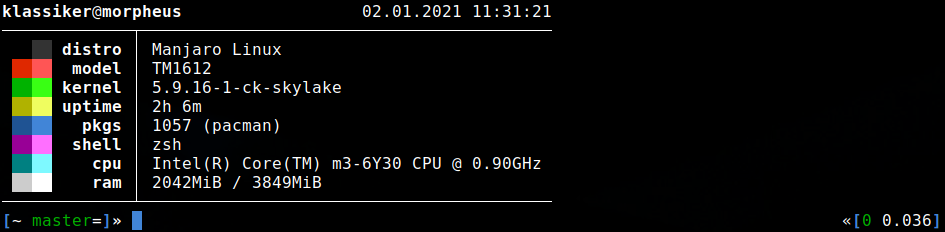
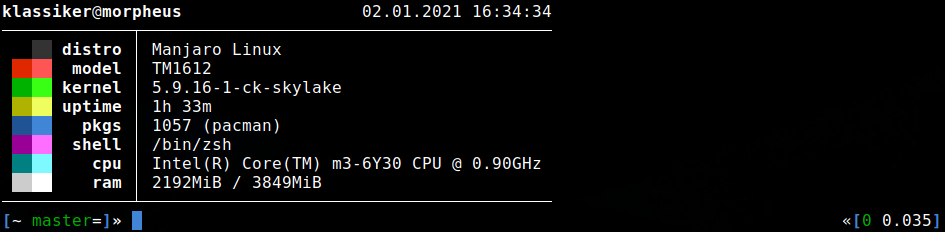
shell format changed to full path

diff --git a/cinfo.c b/cinfo.c
@@ -2,10 +2,11 @@
  * path:       /home/klassiker/.local/share/repos/cinfo/cinfo.c
  * author:     klassiker [mrdotx]
  * github:     https://github.com/mrdotx/cinfo
- * date:       2021-01-02T11:23:02+0100
+ * date:       2021-01-02T16:34:02+0100
  */
 
 #include <stdio.h>
+#include <stdlib.h>
 #include <string.h>
 #include <time.h>
 
@@ -36,16 +37,16 @@ int linelen,
 
 char user[50],
      host[50],
-     zeit[] = "31.12.2020 23:59:59",
+     zeit[20],
      distro[50],
      model[65],
      kernel[50],
-     uptime[] = "999d 23h 59m",
-     pkgs[] = "99999 (pacman)",
-     shell[] = "dash",
+     uptime[10],
+     pkgs[15],
+     shell[25],
      cpu[50],
-     ram[] = "99999MiB / 99999MiB",
-     color[15];
+     ram[20],
+     color[20];
 
 const char* getSpacer(char *character, int length) {
     static char spacer[] = "";
@@ -62,9 +63,7 @@ const char* getSpacer(char *character, int length) {
 }
 
 void getUser() {
-    FILE *userName = popen("printf '%s\n' $USER", "r");
-    fscanf(userName, "%s", user);
-    fclose(userName);
+    sprintf(user, "%s", getenv("USER"));
 }
 
 void getHost() {
@@ -186,9 +185,7 @@ void getPackages() {
 }
 
 void getShell() {
-    FILE *shellpath = popen("basename $SHELL", "r");
-    fscanf(shellpath, "%s", shell);
-    fclose(shellpath);
+    sprintf(shell, "%s", getenv("SHELL"));
 
     if (linelen < strlen(shell)) {
         linelen = strlen(shell);
